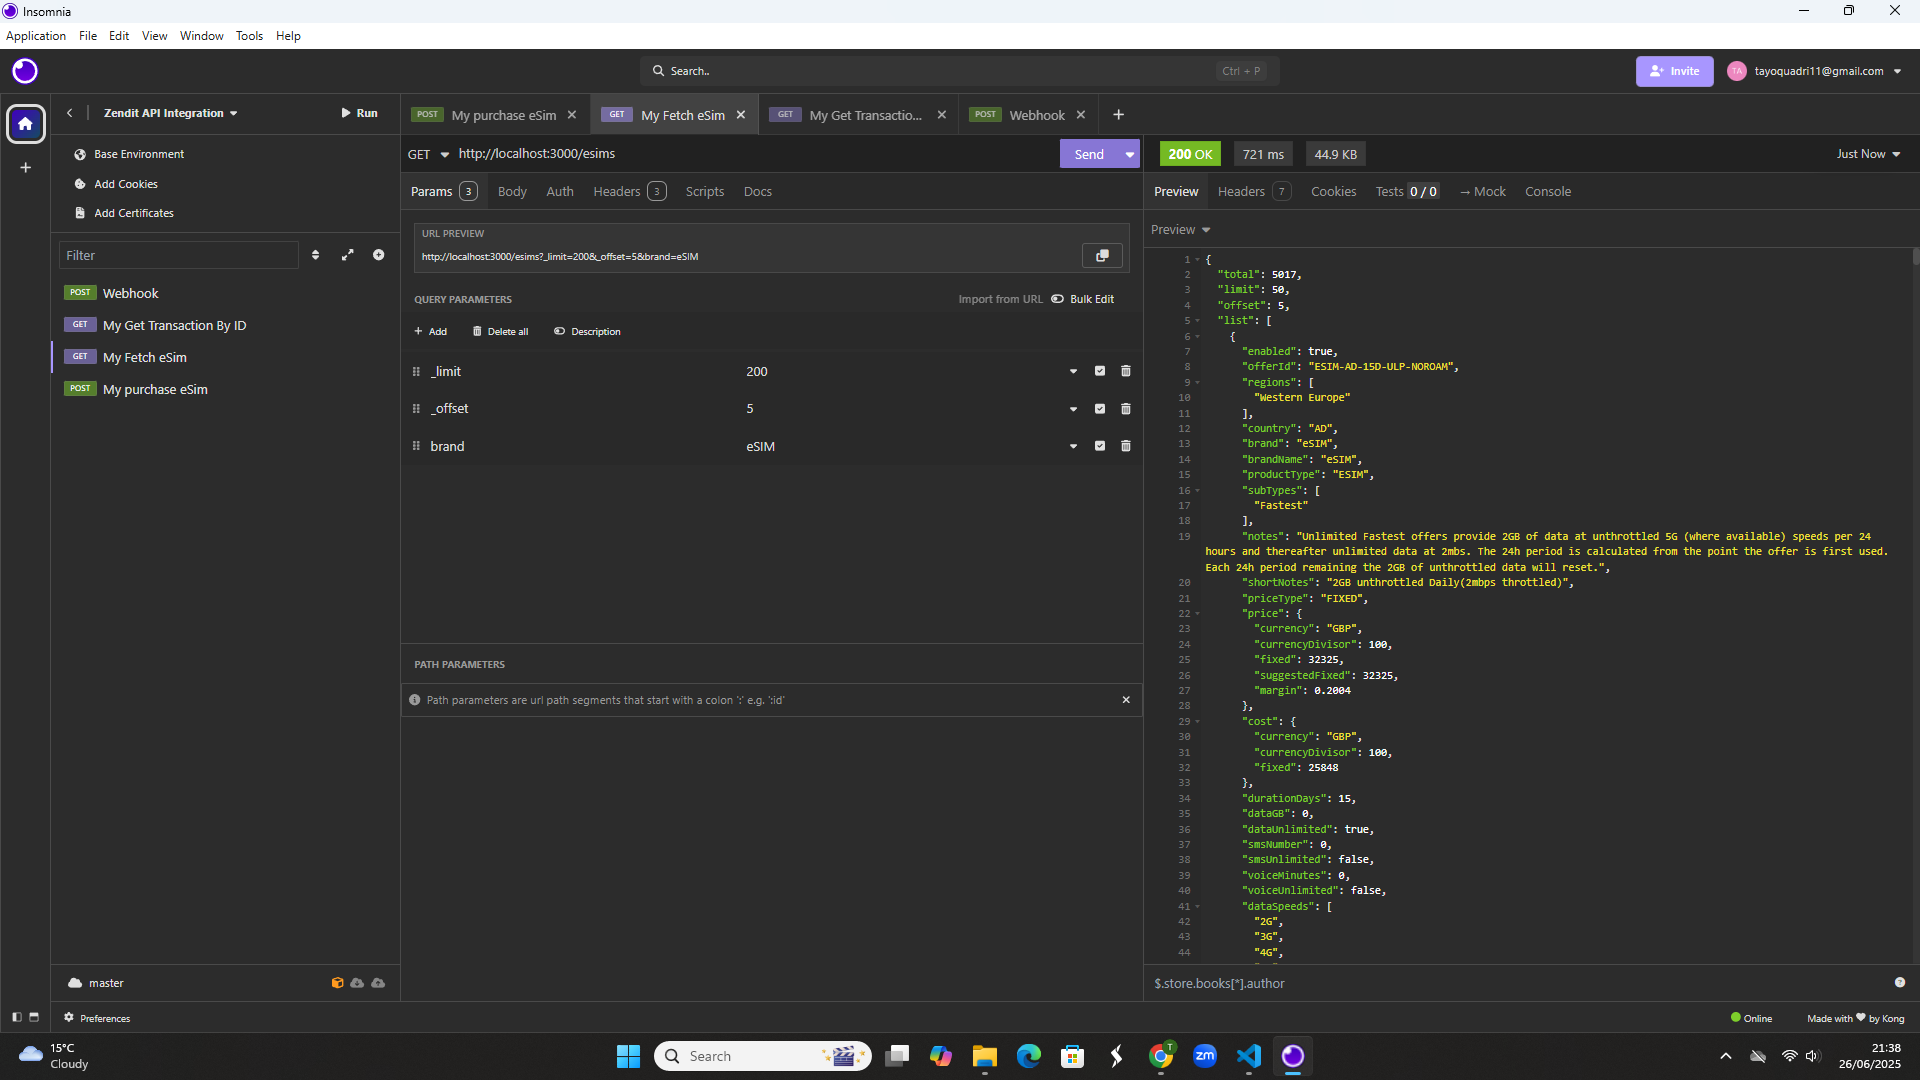
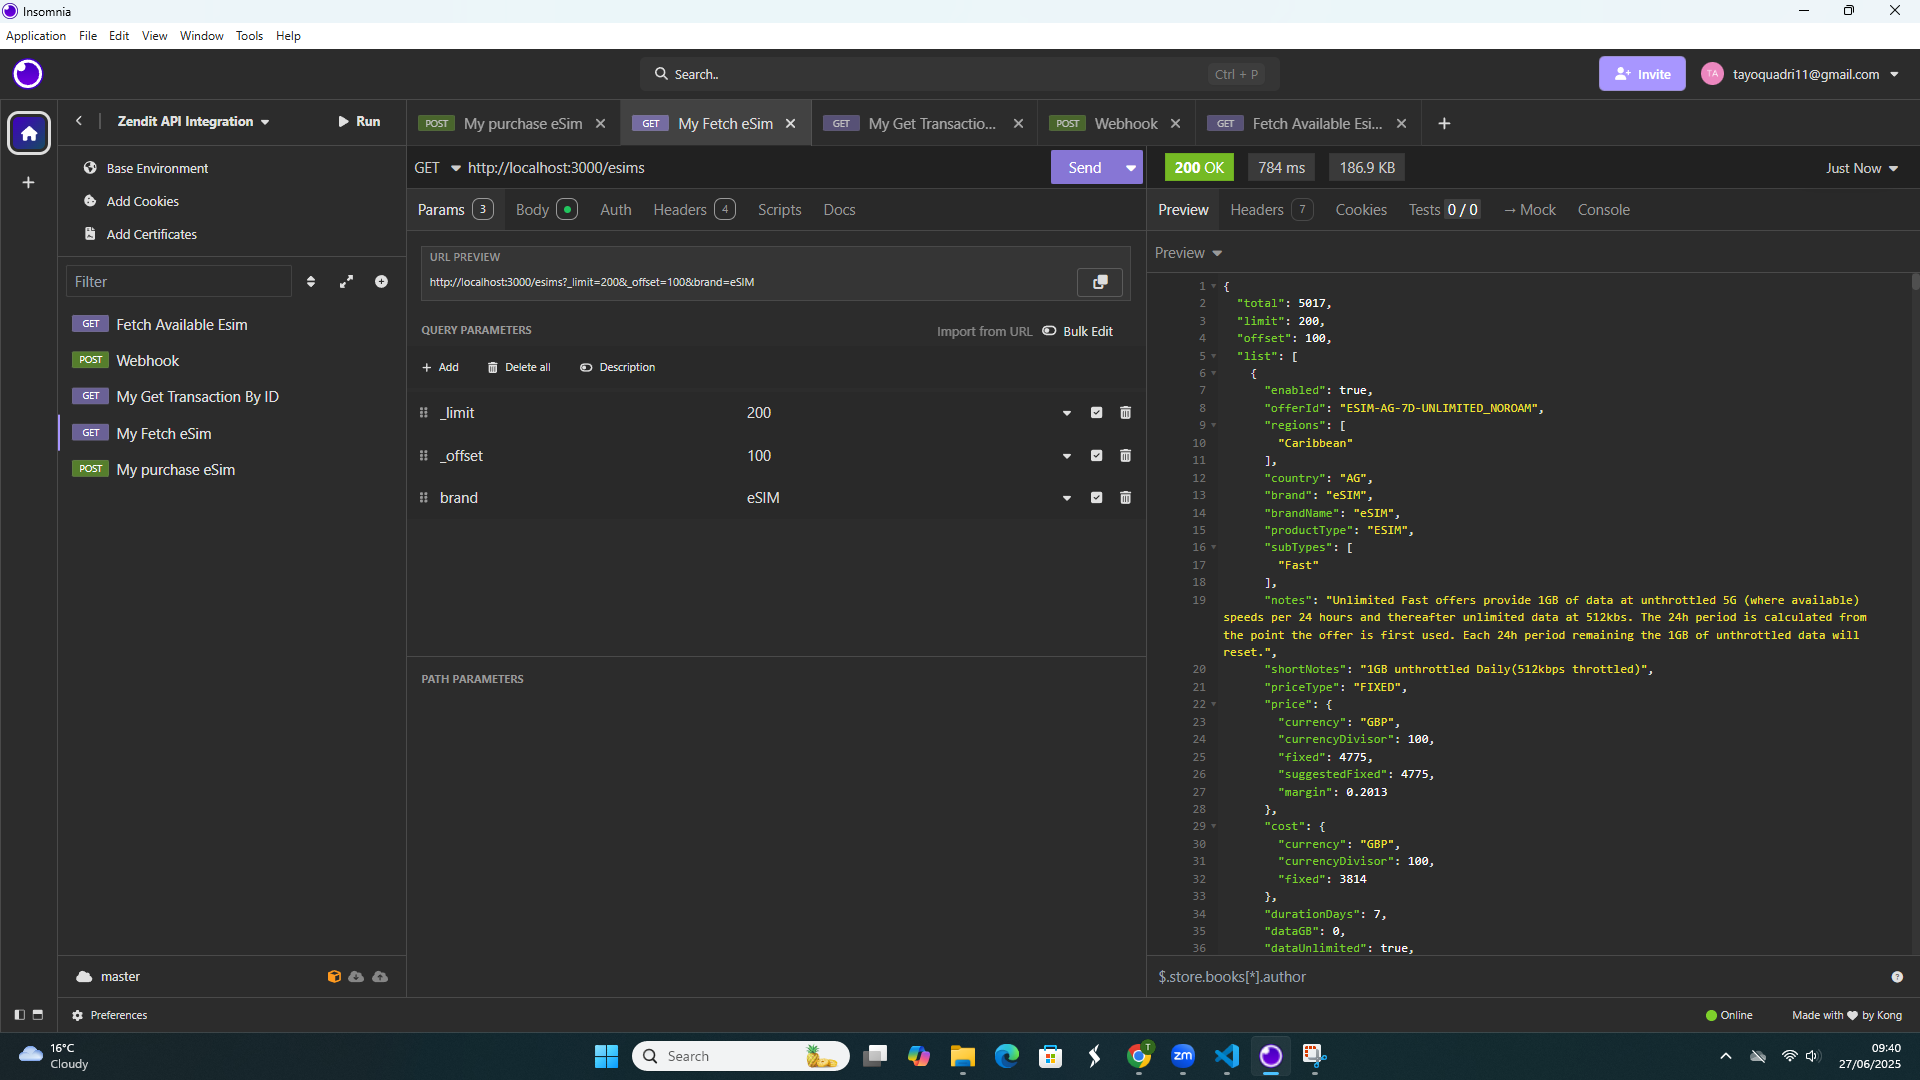
new commit

diff --git a/Readme.md b/Readme.md
@@ -37,27 +37,26 @@ req.query.offset || 0;
 
 ✅ Get all eSIMs (default pagination)
 GET `/esims`
-
-![alt text](default_query-1.png)
+![alt text](default_query.png)
 
 
 ✅ Custom pagination
 GET `/esims?_limit=200&_offset=100`
-
-![alt text](offset_limit.png)
+![alt text](filter_by_limit&offset.png)
 
 
 ✅ Filter by country
 GET `/esims?_limit=100&_offset=0&country=AE`
-![alt text](filterbyCountry.png)
+![alt text](filter_by_country.png)
+
 
 ✅ Filter by brand
-GET `/esims?_limit=200&_offset=5&brand=eSIM`
+GET `/esims?_limit=200&_offset=100&brand=eSIM`
 ![alt text](filter_by_brand.png)
 
 ✅ Filter by country & brand
 
-GET `/esims?_limit=200&brand=eSIM&country=US`
+GET `/esims?_limit=200&_offset=0&brand=eSIM&country=US`
 ![alt text](filter_by_brand&country.png)
 
 http://localhost:3000/esims?_limit=200&brand=eSIM&country=US
